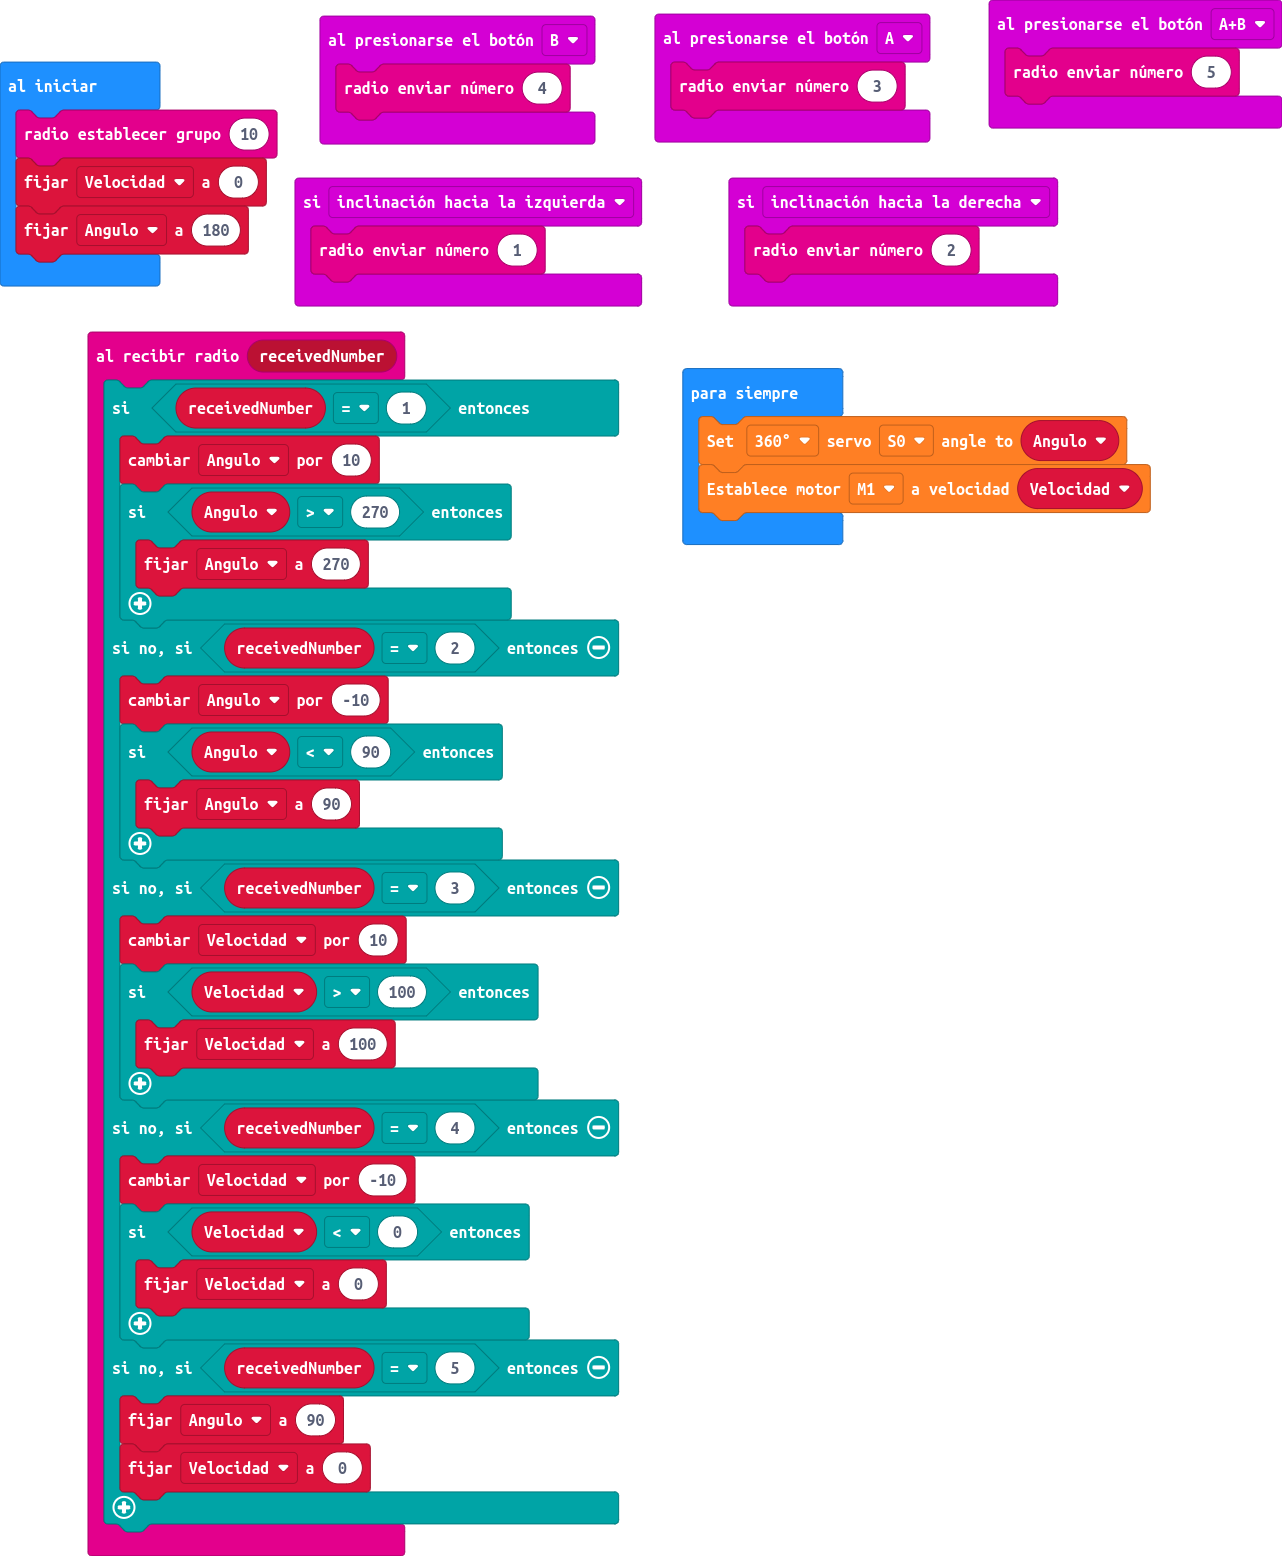
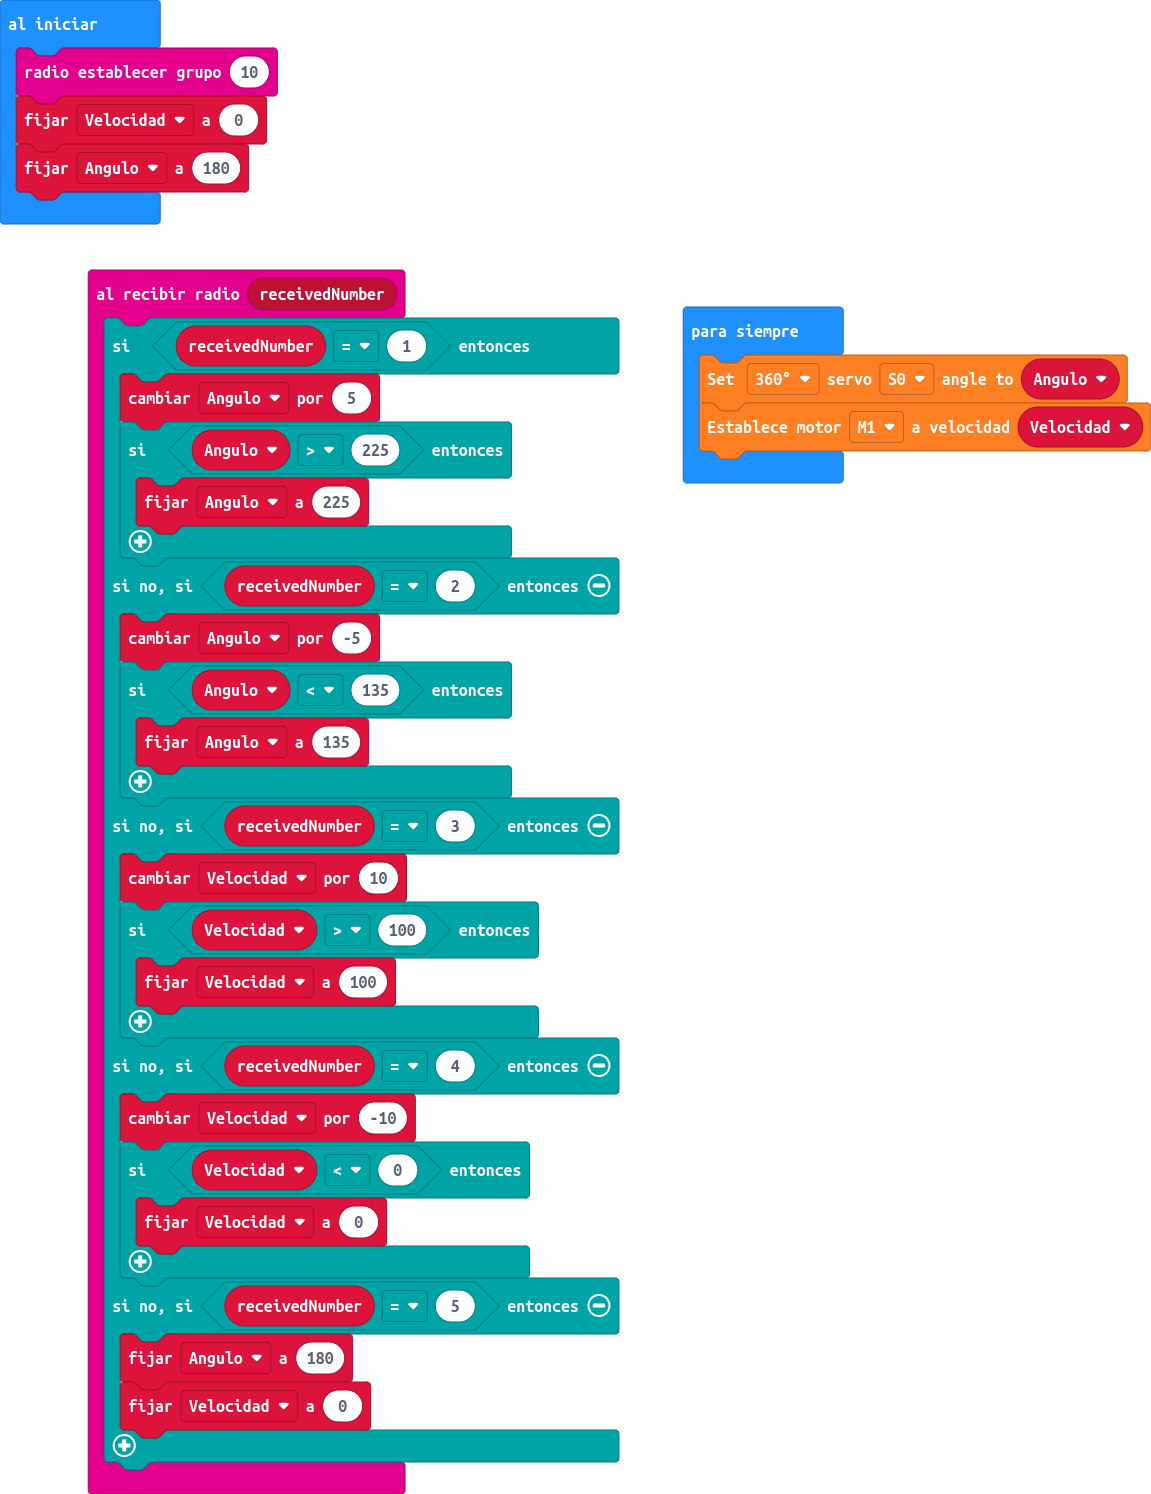
Actualizar pxt.json, main.blocks, main.ts

diff --git a/main.ts b/main.ts
@@ -1,13 +1,13 @@
 radio.onReceivedNumber(function (receivedNumber) {
     if (receivedNumber == 1) {
-        Angulo += 10
-        if (Angulo > 270) {
-            Angulo = 270
+        Angulo += 5
+        if (Angulo > 225) {
+            Angulo = 225
         }
     } else if (receivedNumber == 2) {
-        Angulo += -10
-        if (Angulo < 90) {
-            Angulo = 90
+        Angulo += -5
+        if (Angulo < 135) {
+            Angulo = 135
         }
     } else if (receivedNumber == 3) {
         Velocidad += 10
@@ -20,24 +20,9 @@ radio.onReceivedNumber(function (receivedNumber) {
             Velocidad = 0
         }
     } else if (receivedNumber == 5) {
-        Angulo = 90
+        Angulo = 180
         Velocidad = 0
     }
-})
-input.onButtonPressed(Button.A, function () {
-    radio.sendNumber(3)
-})
-input.onGesture(Gesture.TiltRight, function () {
-    radio.sendNumber(2)
-})
-input.onGesture(Gesture.TiltLeft, function () {
-    radio.sendNumber(1)
-})
-input.onButtonPressed(Button.AB, function () {
-    radio.sendNumber(5)
-})
-input.onButtonPressed(Button.B, function () {
-    radio.sendNumber(4)
 })
 let Angulo = 0
 let Velocidad = 0
